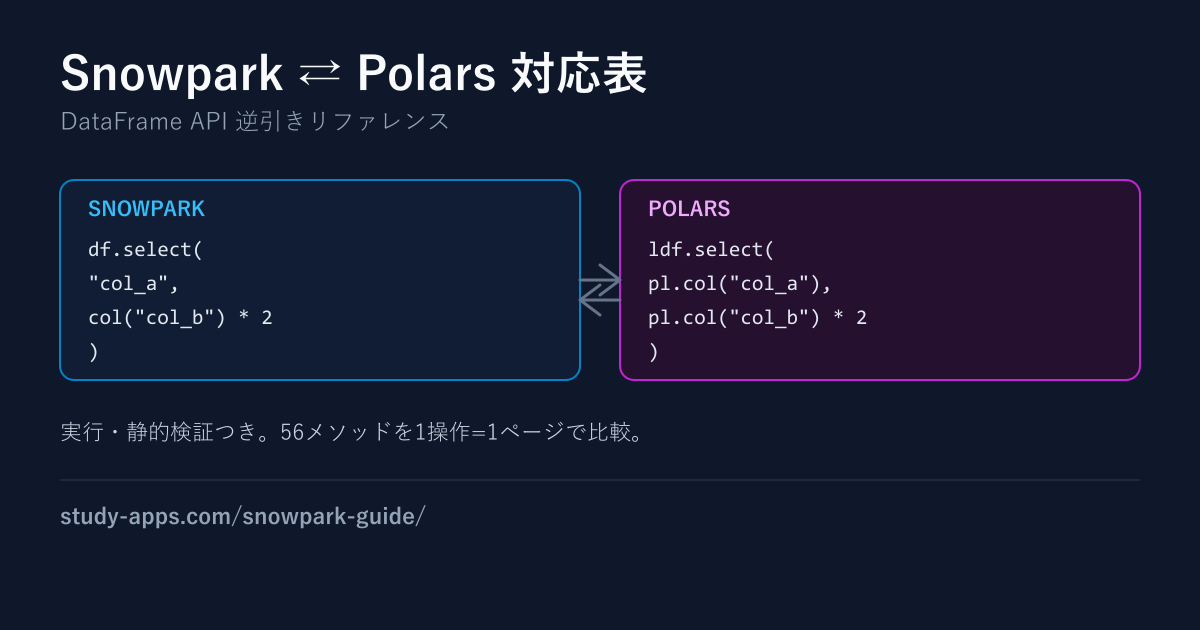
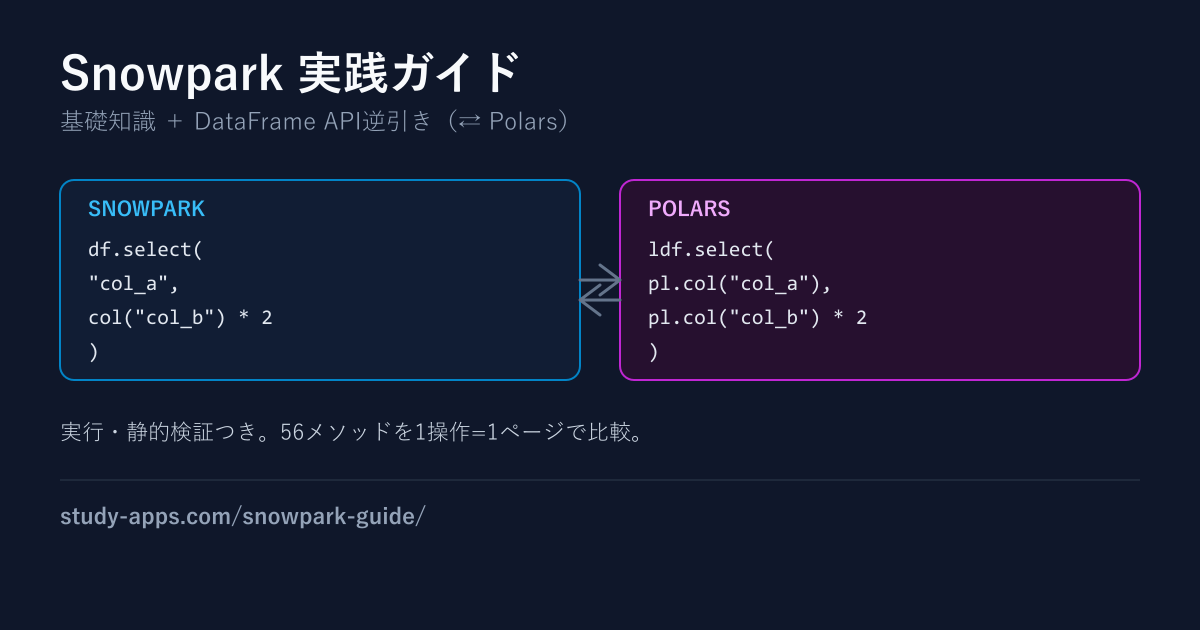
fix: サイト名を「Snowpark 実践ガイド」に変更（O-2-24 item C・O-2-20積み残し）
旧名「Snowpark ⇄ Polars 対応表」が基礎知識ページ（料金・ML・アーキテクチャ等、
実際にはPolarsと対応しないページ）にも一律で付いており、タイトルと中身が
矛盾していた。範囲を広げた「Snowpark 実践ガイド」を全体の名乗りにし、
Polars比較が実際に成立する関数リファレンス（Layer B）だけ個別ページで
「◯◯｜Snowpark ⇄ Polars 逆引き｜Snowpark 実践ガイド」の3階層タイトルにした。

変更箇所：App.tsx（SITE_TITLE・entry用メタタイトル分岐）、prerender.ts
（同名SITE_TITLE定数・isEntryフラグ）、Home.tsx（H1・リード文）、
static-pages.ts（aboutページ本文）、index.html（デフォルトmeta/OGP）、
generate-ogp.ts（OGP画像のタイトル文字列）。

本番相当ローカル環境で実測：home/entry/concept/aboutの4種のtitleタグ・
masthead・about本文が新名称に統一されていることを確認。overflow/pageerror 0
（390px/1280px）。ポータルSITES_REGISTRYの更新は別コミットでdeploy:root経由。

Changed region(s): [[0.2467, 0.0603, 0.555, 0.1508], [0.0308, 0.181, 0.4625, 0.2111]]

diff --git a/scripts/prerender.ts b/scripts/prerender.ts
@@ -31,7 +31,8 @@ const DIST_DIR = path.resolve(process.cwd(), 'dist');
 const INDEX_HTML_PATH = path.join(DIST_DIR, 'index.html');
 const BASE = '/snowpark-guide';
 const BASE_URL = 'https://study-apps.com/snowpark-guide';
-const SITE_TITLE = 'Snowpark ⇄ Polars 対応表';
+// 2026-08-29: O-2-24 item C対応＝src/App.tsxと同じ名乗りの変更（詳細はApp.tsxのコメント参照）。
+const SITE_TITLE = 'Snowpark 実践ガイド';
 
 console.log('--- snowpark-guide SSG Pre-rendering ---');
 if (!fs.existsSync(INDEX_HTML_PATH)) {
@@ -54,8 +55,13 @@ function templateForDepth(depth: number): string {
 const esc = (s: string) =>
   s.replace(/&/g, '&amp;').replace(/</g, '&lt;').replace(/>/g, '&gt;').replace(/"/g, '&quot;');
 
-function applyMeta(html: string, title: string, description: string, urlPath: string): string {
-  const fullTitle = urlPath === '/' ? `${SITE_TITLE}｜DataFrame API 逆引きリファレンス` : `${title}｜${SITE_TITLE}`;
+function applyMeta(html: string, title: string, description: string, urlPath: string, isEntry = false): string {
+  const fullTitle =
+    urlPath === '/'
+      ? `${SITE_TITLE}｜DataFrame API逆引き＋アーキテクチャ・料金・ML`
+      : isEntry
+        ? `${title}｜Snowpark ⇄ Polars 逆引き｜${SITE_TITLE}`
+        : `${title}｜${SITE_TITLE}`;
   const url = `${BASE_URL}${urlPath}`;
   return html
     .replace(/<title>.*?<\/title>/, `<title>${esc(fullTitle)}</title>`)
@@ -80,7 +86,7 @@ const shellClose = `</div>`;
 
 // ── トップ：検索窓はJS必須なので、静的フォールバックには9カテゴリ×全エントリの一覧を持たせる ──
 const homeDesc =
-  'Snowpark PythonのDataFrame/Column APIを、Polarsの同等コードと並べて確認できる逆引きリファレンスです。挙動の違いと移行時の落とし穴をメソッドごとに解説します。';
+  'Snowpark Pythonの基礎知識（アーキテクチャ・Spark比較・Polars比較・UDF/UDTF/SPROC・料金・ML）と、DataFrame/Column APIをPolarsの同等コードと並べて確認できる逆引きリファレンスをまとめたサイトです。';
 const categoryListHtml = CATEGORIES.filter((cat) => ALL_ENTRIES.some((e) => e.category === cat.id))
   .map((cat) => {
     const entries = ALL_ENTRIES.filter((e) => e.category === cat.id);
@@ -160,7 +166,7 @@ for (const e of ALL_ENTRIES) {
     <p style="color:#94a3b8;font-size:0.85rem">Polars ${esc(e.verified.polarsVersion)} で実行確認 / Snowpark Python SDK ${esc(e.verified.snowparkSdkVersion)} で静的検証（${esc(e.verified.date)}）</p>
     ${footerNav}
   ${shellClose}`;
-  let html = applyMeta(templateForDepth(1), e.title, desc, `/${e.slug}/`);
+  let html = applyMeta(templateForDepth(1), e.title, desc, `/${e.slug}/`, true);
   html = html.replace('<div id="root"></div>', `<div id="root">${fallback}</div>`);
   const jsonLd = JSON.stringify({
     '@context': 'https://schema.org',

diff --git a/index.html b/index.html
@@ -4,27 +4,27 @@
     <meta charset="UTF-8" />
     <meta name="viewport" content="width=device-width, initial-scale=1.0" />
     <link rel="icon" type="image/svg+xml" href="./favicon.svg" />
-    <title>Snowpark ⇄ Polars 対応表｜DataFrame API 逆引きリファレンス</title>
+    <title>Snowpark 実践ガイド｜DataFrame API逆引き＋アーキテクチャ・料金・ML</title>
     <meta
       name="description"
-      content="Snowpark PythonのDataFrame/Column APIを、Polarsの同等コードと並べて確認できる逆引きリファレンスです。挙動の違いと移行時の落とし穴をメソッドごとに解説します。"
+      content="Snowpark Pythonの基礎知識（アーキテクチャ・Spark比較・Polars比較・UDF/UDTF/SPROC・料金・ML）と、DataFrame/Column APIをPolarsの同等コードと並べて確認できる逆引きリファレンスをまとめたサイトです。"
     />
     <link rel="canonical" href="https://study-apps.com/snowpark-guide/" />
     <meta property="og:type" content="website" />
-    <meta property="og:site_name" content="Snowpark ⇄ Polars 対応表" />
-    <meta property="og:title" content="Snowpark ⇄ Polars 対応表｜DataFrame API 逆引きリファレンス" />
+    <meta property="og:site_name" content="Snowpark 実践ガイド" />
+    <meta property="og:title" content="Snowpark 実践ガイド｜DataFrame API逆引き＋アーキテクチャ・料金・ML" />
     <meta
       property="og:description"
-      content="Snowpark PythonのDataFrame/Column APIを、Polarsの同等コードと並べて確認できる逆引きリファレンスです。"
+      content="Snowpark Pythonの基礎知識と、DataFrame/Column APIをPolarsの同等コードと並べて確認できる逆引きリファレンスをまとめたサイトです。"
     />
     <meta property="og:url" content="https://study-apps.com/snowpark-guide/" />
     <meta property="og:image" content="https://study-apps.com/snowpark-guide/ogp.png" />
     <meta property="og:locale" content="ja_JP" />
     <meta name="twitter:card" content="summary_large_image" />
-    <meta name="twitter:title" content="Snowpark ⇄ Polars 対応表｜DataFrame API 逆引きリファレンス" />
+    <meta name="twitter:title" content="Snowpark 実践ガイド｜DataFrame API逆引き＋アーキテクチャ・料金・ML" />
     <meta
       name="twitter:description"
-      content="Snowpark PythonのDataFrame/Column APIを、Polarsの同等コードと並べて確認できる逆引きリファレンスです。"
+      content="Snowpark Pythonの基礎知識と、DataFrame/Column APIをPolarsの同等コードと並べて確認できる逆引きリファレンスをまとめたサイトです。"
     />
     <meta name="twitter:image" content="https://study-apps.com/snowpark-guide/ogp.png" />
     <script

diff --git a/src/data/static-pages.ts b/src/data/static-pages.ts
@@ -19,16 +19,16 @@ export const STATIC_PAGES: StaticPage[] = [
     slug: 'about',
     title: 'このサイトについて',
     description:
-      'Snowpark ⇄ Polars 対応表の目的・検証方針・想定読者について説明します。',
+      'Snowpark 実践ガイドの目的・検証方針・想定読者について説明します。',
     body: `## このサイトについて
 
-「Snowpark ⇄ Polars 対応表」は、Snowflake の Snowpark Python DataFrame/Column API と、Polars の LazyFrame/Expression API を、同じ処理を書くとき並べて見比べられるようにした逆引きリファレンスです。
+「Snowpark 実践ガイド」は、Snowflake の Snowpark Python を実務で使うための情報を2種類にまとめたサイトです。1つは、アーキテクチャ・Apache Sparkとの違い・Polarsとの違い（総論）・UDF/UDTF/ストアドプロシージャの使い分け・料金構造・Snowpark ML といった基礎知識。もう1つは、Snowpark の DataFrame/Column API を Polars の LazyFrame/Expression API と並べて見比べられる逆引きリファレンスです。
 
-Polars で書き慣れた処理を Snowpark でどう書くか、あるいはその逆を、検索して1操作=1ページですぐ確認できることを目指しています。
+Polars で書き慣れた処理を Snowpark でどう書くか、あるいはその逆を、検索して1操作=1ページですぐ確認できることを目指すと同時に、コードの書き方だけでは分からない「なぜそうなるか」「どこにコストがかかるか」を基礎知識のページで解説しています。
 
 ## 想定読者
 
-すでに Polars か Snowpark のどちらかに慣れていて、もう一方への移行やAPIの対応関係を調べているデータエンジニア・アナリストを想定しています。両方の入門解説ではなく、対応表として使うことを前提にしています。
+Snowpark を業務で使い始めた、または使うことを検討しているデータエンジニア・アナリストを想定しています。基礎知識のページは Snowpark を初めて触る段階でも読めるようにしていますが、Python や SQL の基本的な知識は前提にしています。DataFrame/Column API の逆引きリファレンスは、すでに Polars か Snowpark のどちらかに慣れていて、もう一方への移行やAPIの対応関係を調べる用途を想定しています。
 
 ## 収録範囲
 

diff --git a/src/App.tsx b/src/App.tsx
@@ -10,7 +10,12 @@ import { STATIC_PAGES } from './data/static-pages';
 import { CONCEPTS } from './data/concepts';
 import { BASE, getCurrentPath, href, navigate } from './lib/router';
 
-const SITE_TITLE = 'Snowpark ⇄ Polars 対応表';
+// 2026-08-29: O-2-24 item C対応＝旧「Snowpark ⇄ Polars 対応表」は基礎知識ページ
+// （料金・ML・アーキテクチャ等、Polarsと対応しないページ）にも一律で付いており、
+// タイトルと中身が矛盾していた。サイト全体の名乗りは範囲を広げた「Snowpark 実践ガイド」
+// にし、Polars比較が実際に当てはまる関数リファレンス（Layer B）だけ個別に
+// 「Snowpark ⇄ Polars 逆引き」を名乗る。
+const SITE_TITLE = 'Snowpark 実践ガイド';
 const SITE_URL = 'https://study-apps.com' + BASE + '/';
 
 function applyMeta(title: string, description: string, path: string) {
@@ -54,8 +59,8 @@ export function App() {
 
   if (path === '/') {
     applyMeta(
-      `${SITE_TITLE}｜DataFrame API 逆引きリファレンス`,
-      'Snowpark PythonのDataFrame/Column APIを、Polarsの同等コードと並べて確認できる逆引きリファレンスです。挙動の違いと移行時の落とし穴をメソッドごとに解説します。',
+      `${SITE_TITLE}｜DataFrame API逆引き＋アーキテクチャ・料金・ML`,
+      'Snowpark Pythonの基礎知識（アーキテクチャ・Spark比較・Polars比較・UDF/UDTF/SPROC・料金・ML）と、DataFrame/Column APIをPolarsの同等コードと並べて確認できる逆引きリファレンスをまとめたサイトです。',
       '/',
     );
     return (
@@ -91,7 +96,7 @@ export function App() {
   const entry = ALL_ENTRIES.find((e) => e.slug === entrySlug);
   if (entry) {
     applyMeta(
-      `${entry.title}｜${SITE_TITLE}`,
+      `${entry.title}｜Snowpark ⇄ Polars 逆引き｜${SITE_TITLE}`,
       `${entry.summary} Snowparkでの書き方とPolarsでの書き方を並べて解説します。`,
       path,
     );

diff --git a/src/pages/Home.tsx b/src/pages/Home.tsx
@@ -14,11 +14,11 @@ export function Home() {
   return (
     <div className="home">
       <header className="home__hero">
-        <h1>Snowpark ⇄ Polars 対応表</h1>
+        <h1>Snowpark 実践ガイド</h1>
         <p className="home__lead">
-          Snowpark Python の DataFrame / Column API と、Polars の LazyFrame / Expression API を、
-          同じ処理を書くときに並べて見比べられる逆引きリファレンスです。メソッド名で検索するか、
-          下のカテゴリから探してください。
+          Snowpark Python のアーキテクチャ・Spark比較・料金構造・MLといった基礎知識と、
+          DataFrame / Column API を Polars の LazyFrame / Expression API と並べて見比べられる
+          逆引きリファレンスをまとめたサイトです。メソッド名で検索するか、下のカテゴリから探してください。
         </p>
         <label className="home__search">
           <span className="sr-only">メソッド名で検索</span>

diff --git a/scripts/generate-ogp.ts b/scripts/generate-ogp.ts
@@ -19,8 +19,8 @@ const codeLines = (lines: string[], x: number, color: string) =>
 
 const svg = `<svg xmlns="http://www.w3.org/2000/svg" width="1200" height="630" viewBox="0 0 1200 630">
   <rect width="1200" height="630" fill="#0f172a"/>
-  <text x="60" y="90" font-family="${FONT}" font-size="46" font-weight="700" fill="#f8fafc">Snowpark ⇄ Polars 対応表</text>
-  <text x="60" y="130" font-family="${FONT}" font-size="24" fill="#94a3b8">DataFrame API 逆引きリファレンス</text>
+  <text x="60" y="90" font-family="${FONT}" font-size="46" font-weight="700" fill="#f8fafc">Snowpark 実践ガイド</text>
+  <text x="60" y="130" font-family="${FONT}" font-size="24" fill="#94a3b8">基礎知識 ＋ DataFrame API逆引き（⇄ Polars）</text>
 
   <rect x="60" y="180" width="520" height="200" rx="14" fill="#111d34" stroke="#0284c7" stroke-width="2"/>
   <text x="88" y="216" font-family="${FONT}" font-size="20" font-weight="700" fill="#38bdf8">SNOWPARK</text>
